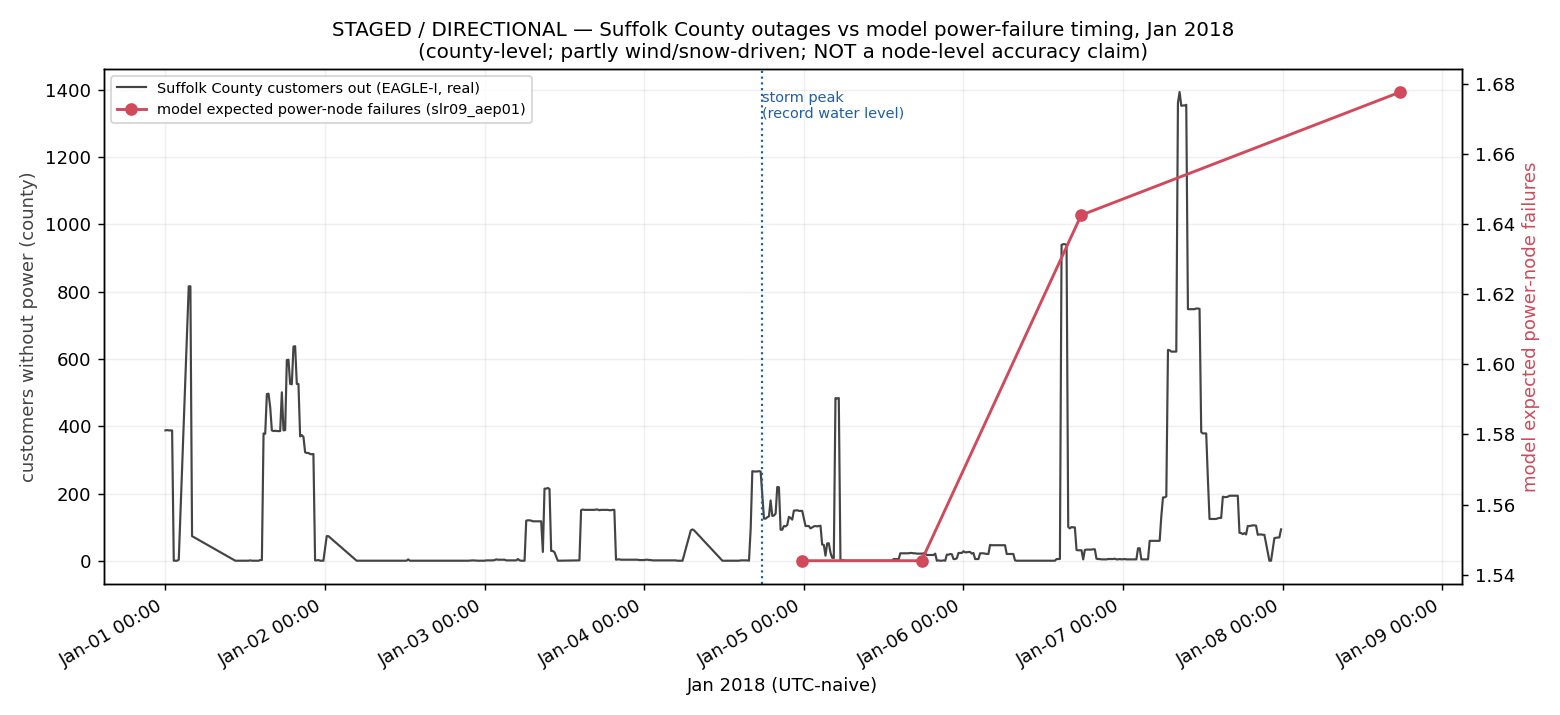
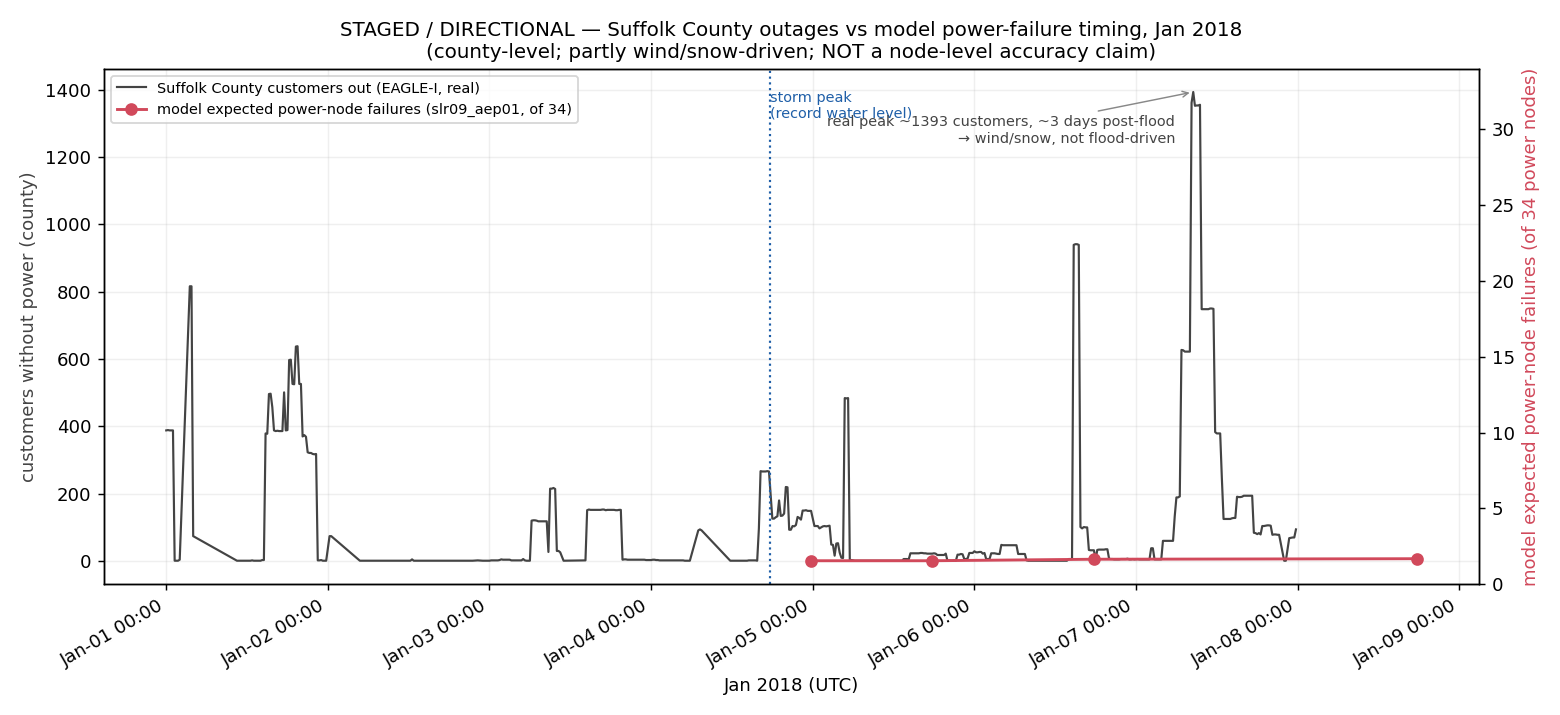
fix staged EAGLE-I overlay axes: anchor model axis at 0 of 34 power nodes so the small flood-driven response reads honestly; annotate non-flood real peak

diff --git a/src/cities/boston_ingest/eagle_i_outages.py b/src/cities/boston_ingest/eagle_i_outages.py
@@ -116,23 +116,35 @@ def _model_power_curve() -> pd.DataFrame:
     rows = [{"hours": t, "clock": STORM_PEAK + pd.Timedelta(hours=t),
              "exp_power_failures": sum(v[1 + i] for v in power.values())}
             for i, t in enumerate(ts)]
-    return pd.DataFrame(rows)
+    return pd.DataFrame(rows), len(power)
 
 
-def _overlay_plot(outages: pd.DataFrame, model: pd.DataFrame, out) -> None:
+def _overlay_plot(outages: pd.DataFrame, model: pd.DataFrame, n_power: int, out) -> None:
     fig, ax1 = plt.subplots(figsize=(12, 5.5))
     ax1.plot(outages["run_start_time"], outages["customers_out"], color="#444444", lw=1.2,
              label="Suffolk County customers out (EAGLE-I, real)")
     ax1.set_ylabel("customers without power (county)", color="#444444")
-    ax1.set_xlabel("Jan 2018 (UTC-naive)")
+    ax1.set_xlabel("Jan 2018 (UTC)")
     ax1.axvline(STORM_PEAK, color="#1f5fa8", ls=":", lw=1.2)
     ax1.annotate("storm peak\n(record water level)", xy=(STORM_PEAK, ax1.get_ylim()[1] * 0.9),
                  fontsize=8, color="#1f5fa8", ha="left")
 
+    # Annotate the real (non-flood) peak, pulled from the data.
+    if len(outages):
+        pk = outages.loc[outages["customers_out"].idxmax()]
+        ax1.annotate(f"real peak ~{int(pk['customers_out'])} customers, ~3 days post-flood\n"
+                     "→ wind/snow, not flood-driven",
+                     xy=(pk["run_start_time"], pk["customers_out"]),
+                     xytext=(-10, -28), textcoords="offset points", fontsize=8, color="#444444",
+                     ha="right", arrowprops=dict(arrowstyle="->", color="#888888", lw=0.8))
+
     ax2 = ax1.twinx()
     ax2.plot(model["clock"], model["exp_power_failures"], "o-", color="#d1495b", lw=1.6,
-             label="model expected power-node failures (slr09_aep01)")
-    ax2.set_ylabel("model expected power-node failures", color="#d1495b")
+             label=f"model expected power-node failures (slr09_aep01, of {n_power})")
+    # Anchor the model axis at 0..N power nodes so the trivial flood-driven response reads as small,
+    # rather than auto-scaling to a narrow band that visually mimics the real outage ramp.
+    ax2.set_ylim(0, n_power)
+    ax2.set_ylabel(f"model expected power-node failures (of {n_power} power nodes)", color="#d1495b")
 
     ax1.xaxis.set_major_formatter(mdates.DateFormatter("%b-%d %H:%M"))
     fig.autofmt_xdate()
@@ -179,8 +191,8 @@ def _readme(outages: pd.DataFrame, out) -> None:
 def download(force: bool = False) -> list[dict]:
     OUT_DIR.mkdir(parents=True, exist_ok=True)
     outages = acquire(force)
-    model = _model_power_curve()
-    _overlay_plot(outages, model, OUT_DIR / "eagle_i_vs_model_power_timing.png")
+    model, n_power = _model_power_curve()
+    _overlay_plot(outages, model, n_power, OUT_DIR / "eagle_i_vs_model_power_timing.png")
     _readme(outages, OUT_DIR / "README.md")
     outages.to_csv(OUT_DIR / "suffolk_2018_outages.csv", index=False)
     peak = outages.loc[outages["customers_out"].idxmax()] if len(outages) else None
